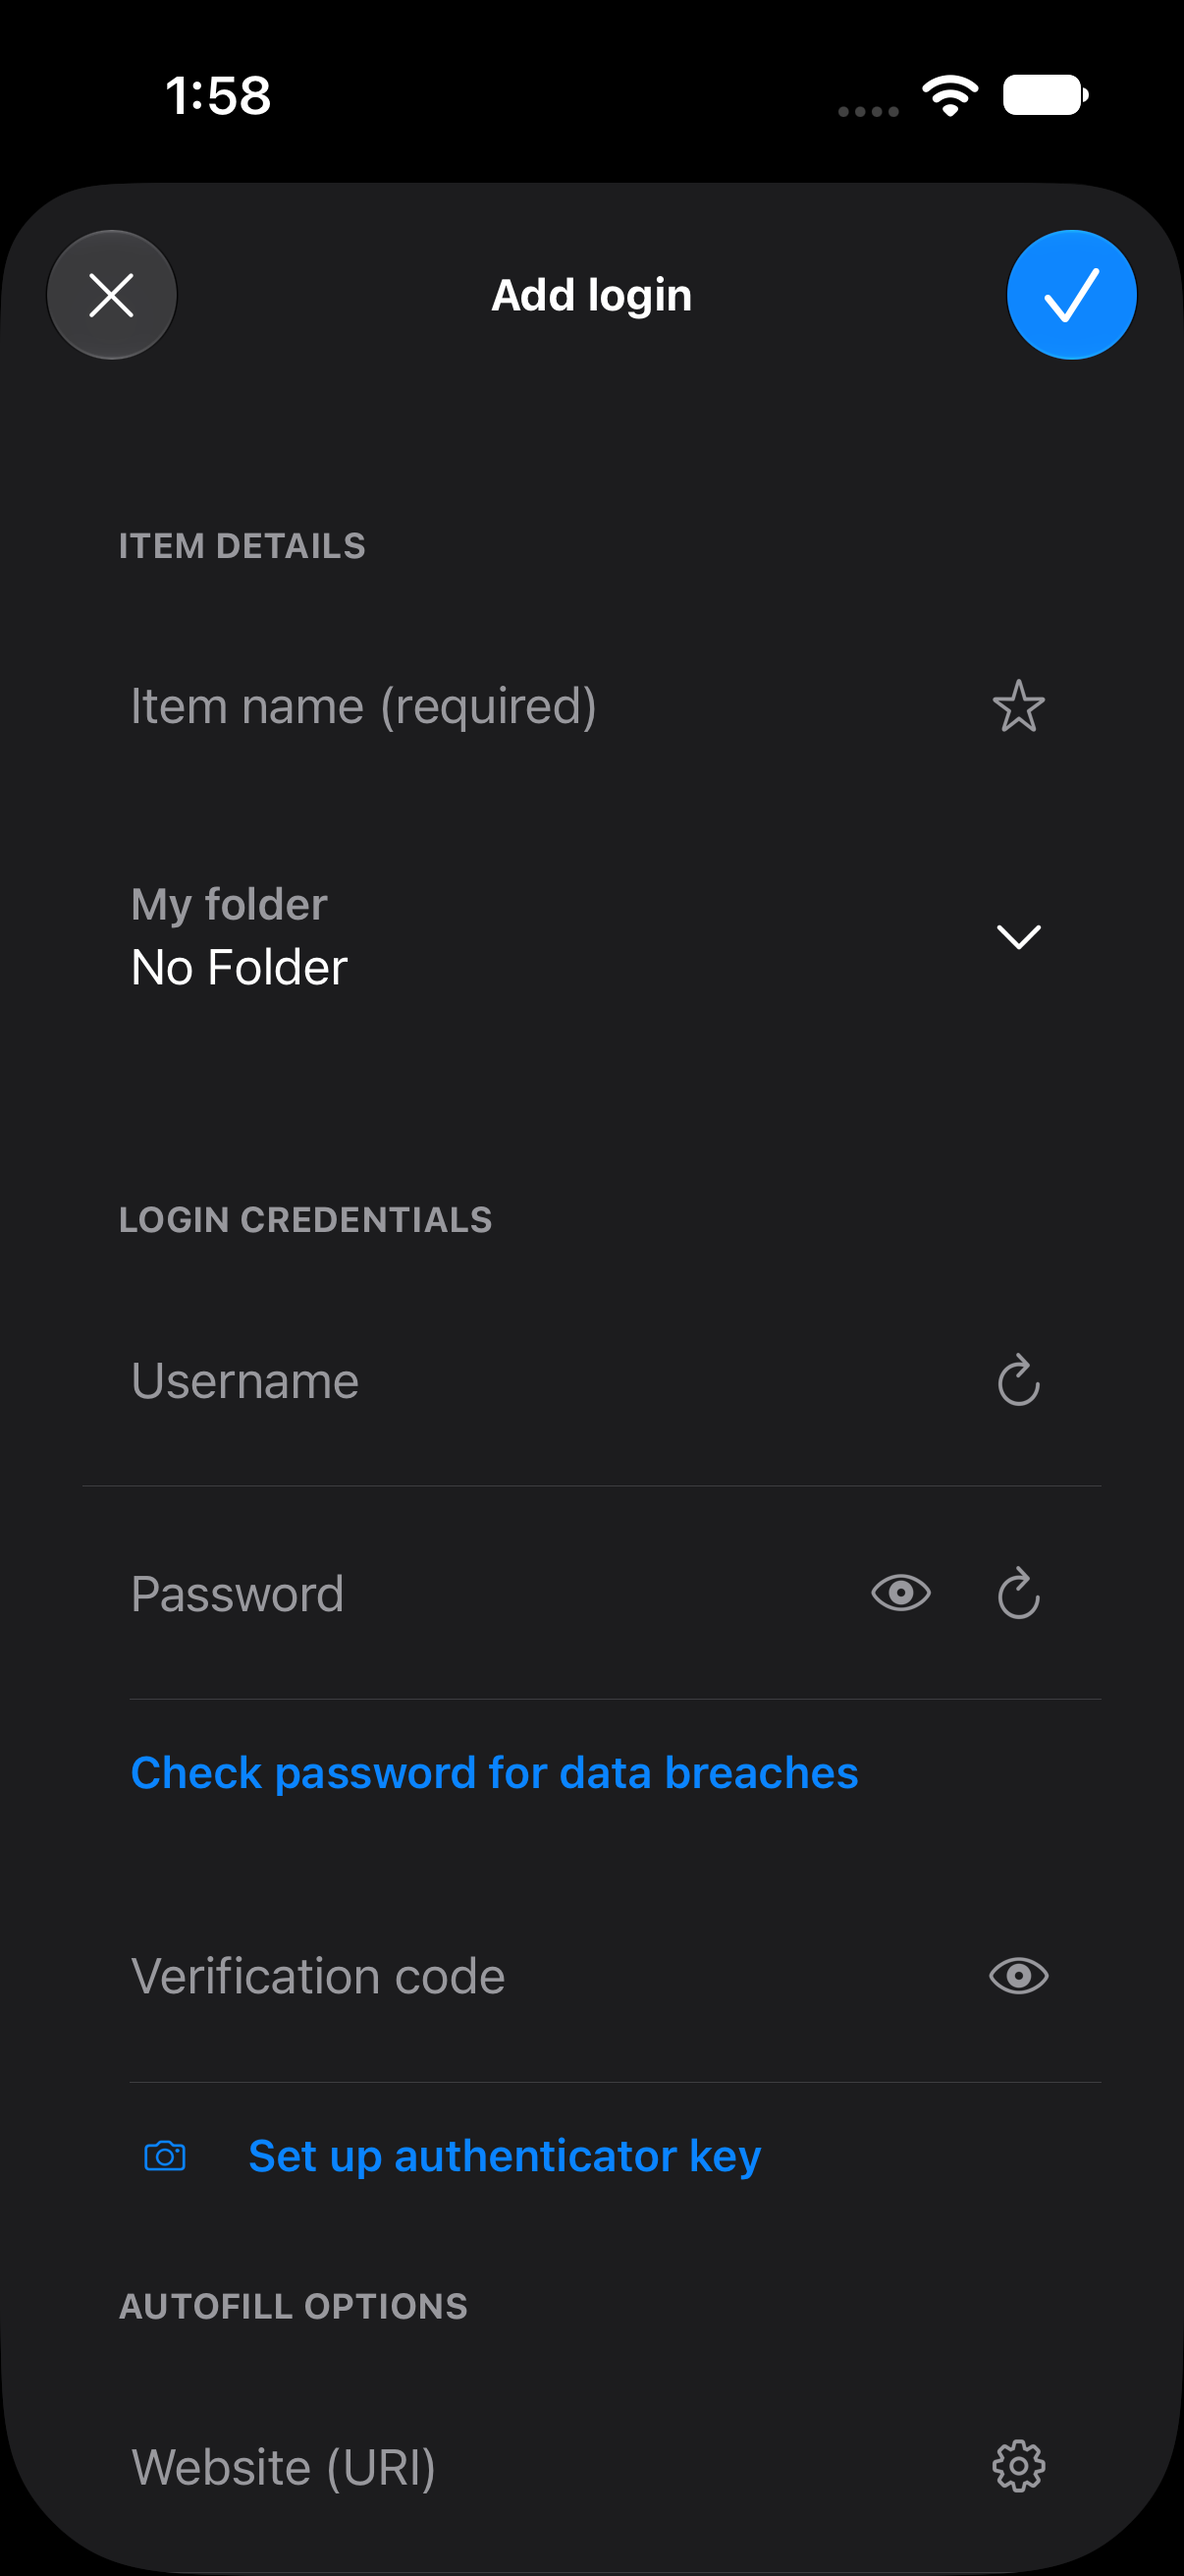
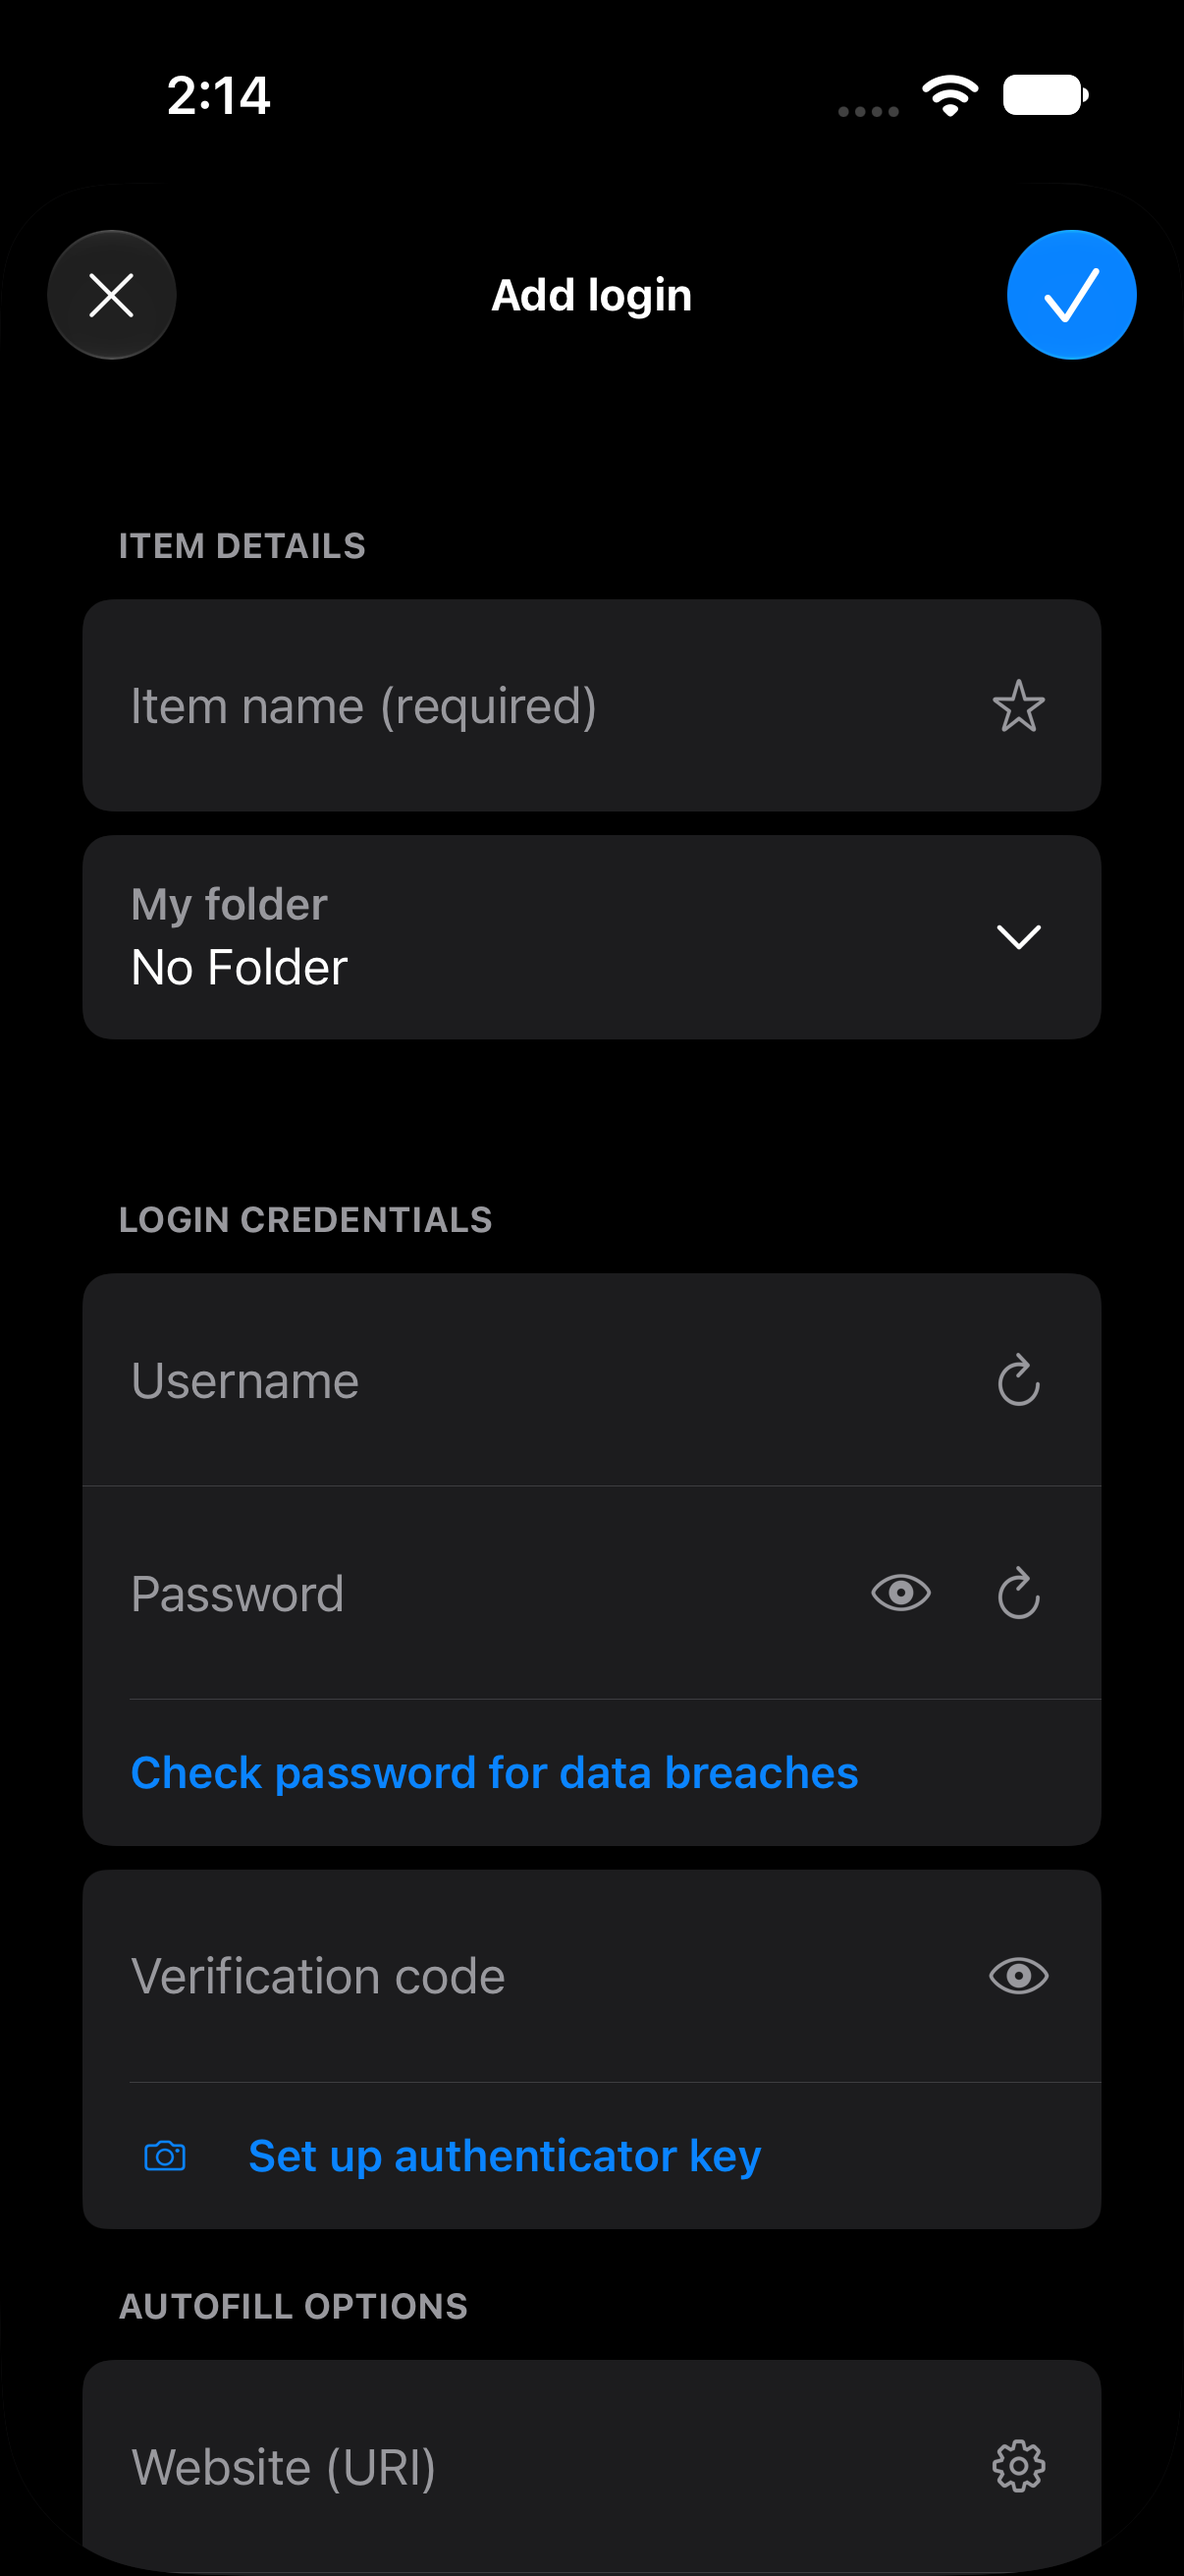
Add form: keep primary background so field cards stay visible in dark mode; doc comment fix

diff --git a/BitwardenShared/UI/Vault/VaultItem/AddEditItem/AddEditItemView.swift b/BitwardenShared/UI/Vault/VaultItem/AddEditItem/AddEditItemView.swift
@@ -86,6 +86,16 @@ struct AddEditItemView: View {
             formRow { itemTypeSection.disabled(store.state.isReadOnly) }
             formRow { additionalOptions.disabled(store.state.isReadOnly) }
         }
+        // The form is presented in a sheet whose grouped background is raised in dark mode and would share one color
+        // with the field cards; keep the app's primary background so the cards stay visible.
+        .apply { view in
+            if #available(iOS 16, *) {
+                view.scrollContentBackground(.hidden)
+            } else {
+                view
+            }
+        }
+        .background(SharedAsset.Colors.backgroundPrimary.swiftUIColor.ignoresSafeArea())
         .animation(.default, value: store.state.collectionsForOwner)
         .backport.dismissKeyboardImmediately()
         .navigationBarTitleDisplayMode(.inline)

diff --git a/BitwardenShared/UI/Platform/Settings/Settings/Appearance/AppearanceView.swift b/BitwardenShared/UI/Platform/Settings/Settings/Appearance/AppearanceView.swift
@@ -9,9 +9,10 @@ import SwiftUI
 struct AppearanceView: View {
     // MARK: Properties
 
-    /// The store used to render the view.
+    /// An action that opens URLs.
     @Environment(\.openURL) private var openURL
 
+    /// The store used to render the view.
     @ObservedObject var store: Store<AppearanceState, AppearanceAction, AppearanceEffect>
 
     // MARK: View
